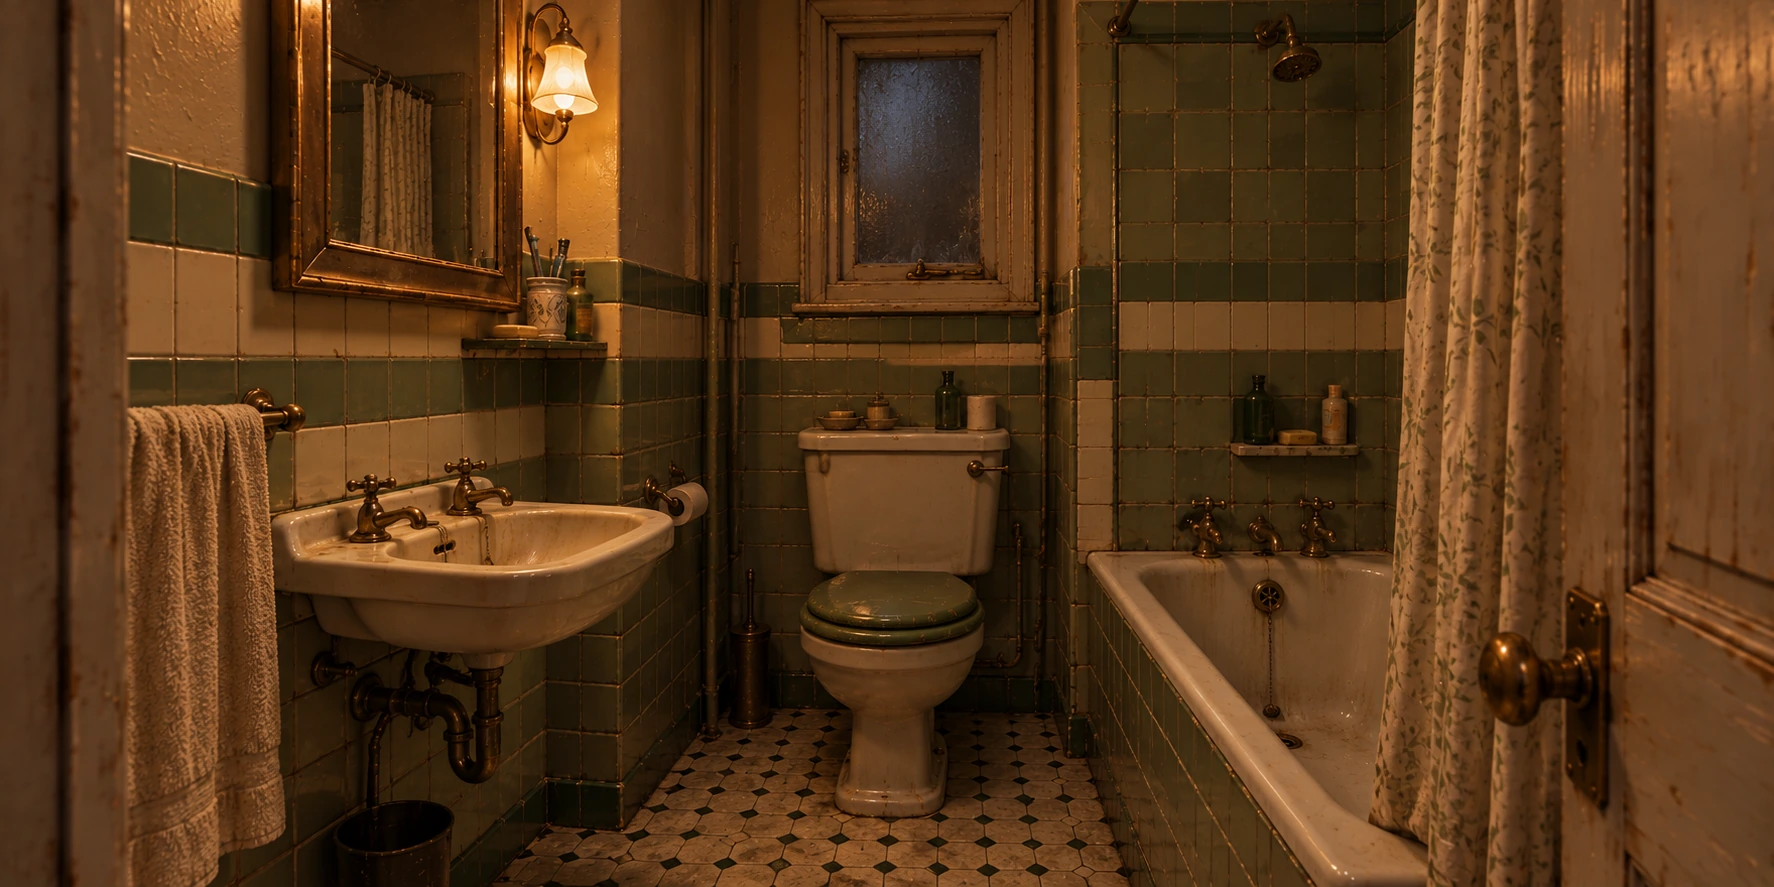
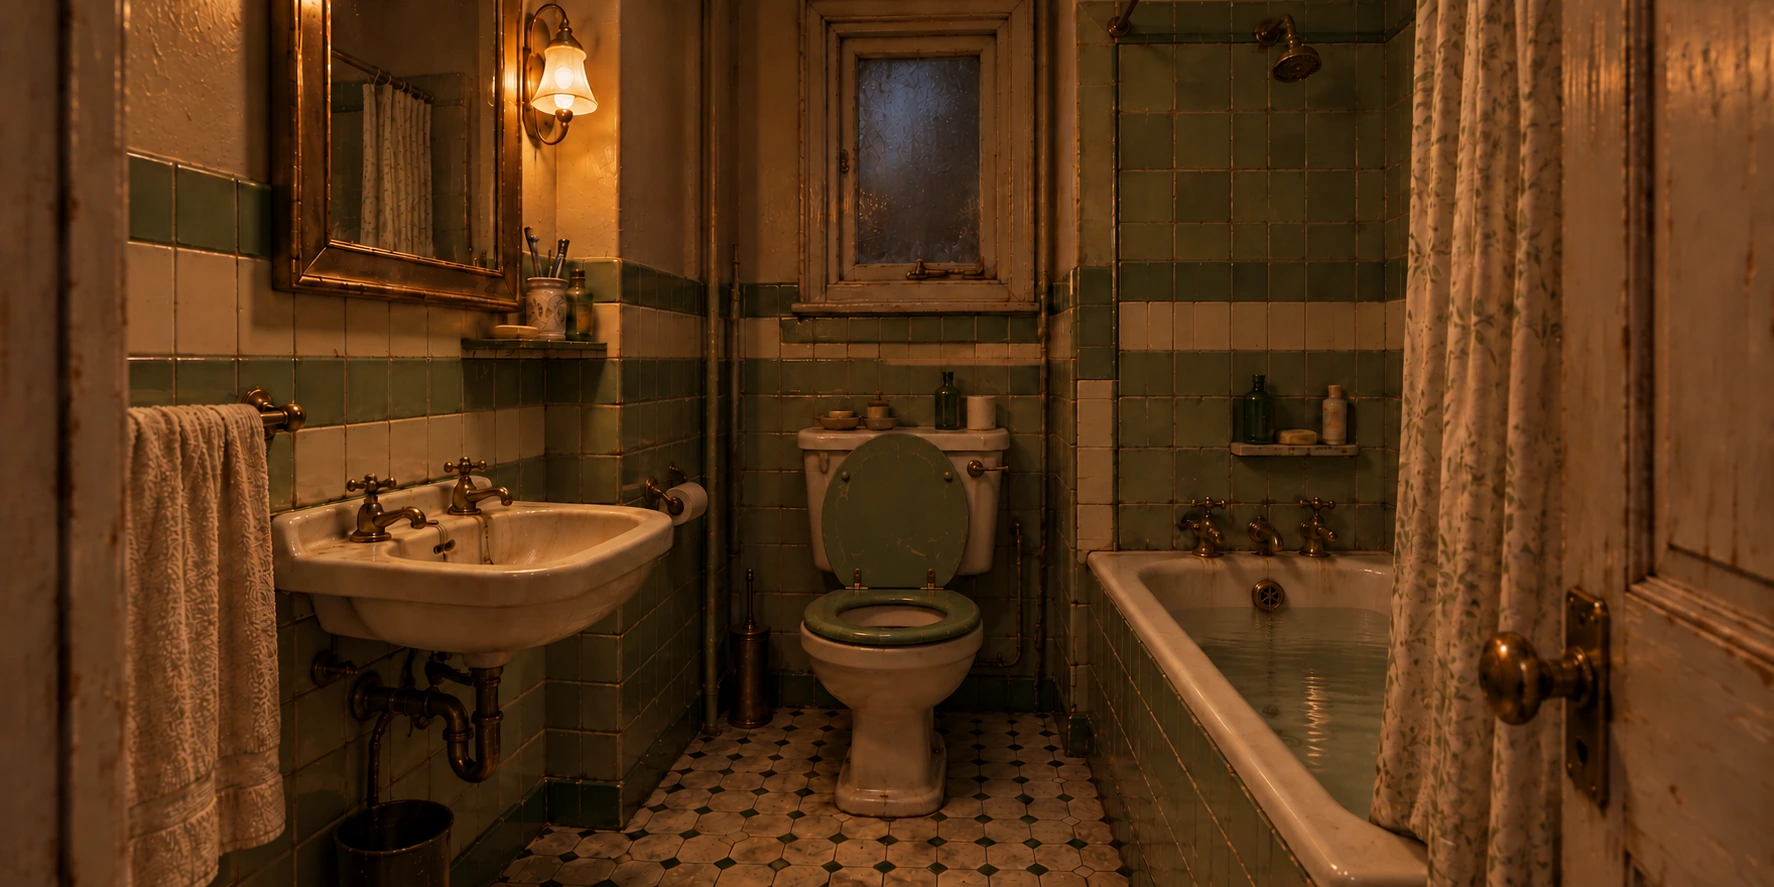
Badezimmer fertig: Klodeckel und Wasser ablassen

diff --git a/quest-ostern.html b/quest-ostern.html
@@ -634,9 +634,14 @@
     // --- Bad ---
     { id: 'ba_becken', ansicht: 'bad', x: 245, y: 430, w: 355, h: 195, typ: 'naehe', nah: 'becken_nah',
       label: 'Waschbecken' },
-    { id: 'ba_deckel', ansicht: 'bad', x: 800, y: 500, w: 200, h: 150, typ: 'ausschnitt', zustand: 'klodeckel_auf',
+    // Grundbild zeigt den Deckel OFFEN. Der Flicken liegt darauf, solange er zu ist.
+    { id: 'ba_deckel', ansicht: 'bad', x: 800, y: 480, w: 200, h: 175, typ: 'ausschnitt', zustand: 'klodeckel_auf',
       klang: 'holz', label: 'Klodeckel',
-      patch: 'bilder/bad-deckel.webp', patchX: 809, patchY: 419, patchW: 177, patchH: 232 },
+      patch: 'bilder/bad-deckel-zu.webp', patchNicht: true, patchX: 809, patchY: 419, patchW: 182, patchH: 237 },
+    // Stöpsel ziehen: das Wasser läuft ab und gibt den Boden der Wanne frei
+    { id: 'ba_wanne', ansicht: 'bad', x: 1090, y: 525, w: 380, h: 340, typ: 'ausschnitt', zustand: 'wanne_leer',
+      klang: 'stoff', label: 'Badewanne',
+      patch: 'bilder/bad-wanne-leer.webp', patchX: 1078, patchY: 513, patchW: 399, patchH: 374 },
     // --- Dachboden (noch Platzhalter-Geometrie) ---
     { id: 'd_kiste',    ansicht: 'dachboden', x: 200,  y: 560, w: 260, h: 180, typ: 'toggle', form: 'klappe', zustand: 'dach_kiste_offen', label: 'Holzkiste' },
     { id: 'd_schrank',  ansicht: 'dachboden', x: 1300, y: 160, w: 140, h: 200, typ: 'toggle', form: 'klappe', zustand: 'dach_schrank_offen', label: 'Alter Schrank' }
@@ -652,7 +657,7 @@
     { id: 'e04', ansicht: 'wohnzimmer', x: 1332, y: 712, r: 9,  farbe: '#8a4a3a', muster: 'punkte', ebene: 1, sichtbarWenn: null },  // auf dem Teppich
     { id: 'e03', ansicht: 'kueche',     x: 1318, y: 419, r: 9,  farbe: '#c8703a', muster: 'streifen', ebene: 1, sichtbarWenn: ['kueche_licht'] },  // in der Obstschale
     { id: 'e06', ansicht: 'garten',     x: 1044, y: 846, r: 8,  farbe: '#4e7a3e', muster: 'punkte', ebene: 1, sichtbarWenn: null },
-    { id: 'e07', ansicht: 'becken_nah', x: 545,  y: 560, r: 18, farbe: '#d6c3a2', muster: 'zickzack', ebene: 2, sichtbarWenn: null },  // im Waschbecken
+    { id: 'e07', ansicht: 'bad',        x: 1322, y: 752, r: 13, farbe: '#cfc3ad', muster: 'zickzack', ebene: 2, sichtbarWenn: 'wanne_leer' },  // am Boden der Badewanne
     // --- Ebene 2: nur nach Öffnen sichtbar ---
     { id: 'e09', ansicht: 'garage1',     x: 170,  y: 470, r: 8,  farbe: '#5a5337', muster: 'streifen', ebene: 2, sichtbarWenn: 'akten_offen' },  // in der Aktenschrank-Schublade
     { id: 'e10', ansicht: 'garage1',     x: 618,  y: 618, r: 8,  farbe: '#2a1a12', muster: 'punkte',   ebene: 2, sichtbarWenn: 'blau_offen' },   // in der blauen Schublade
